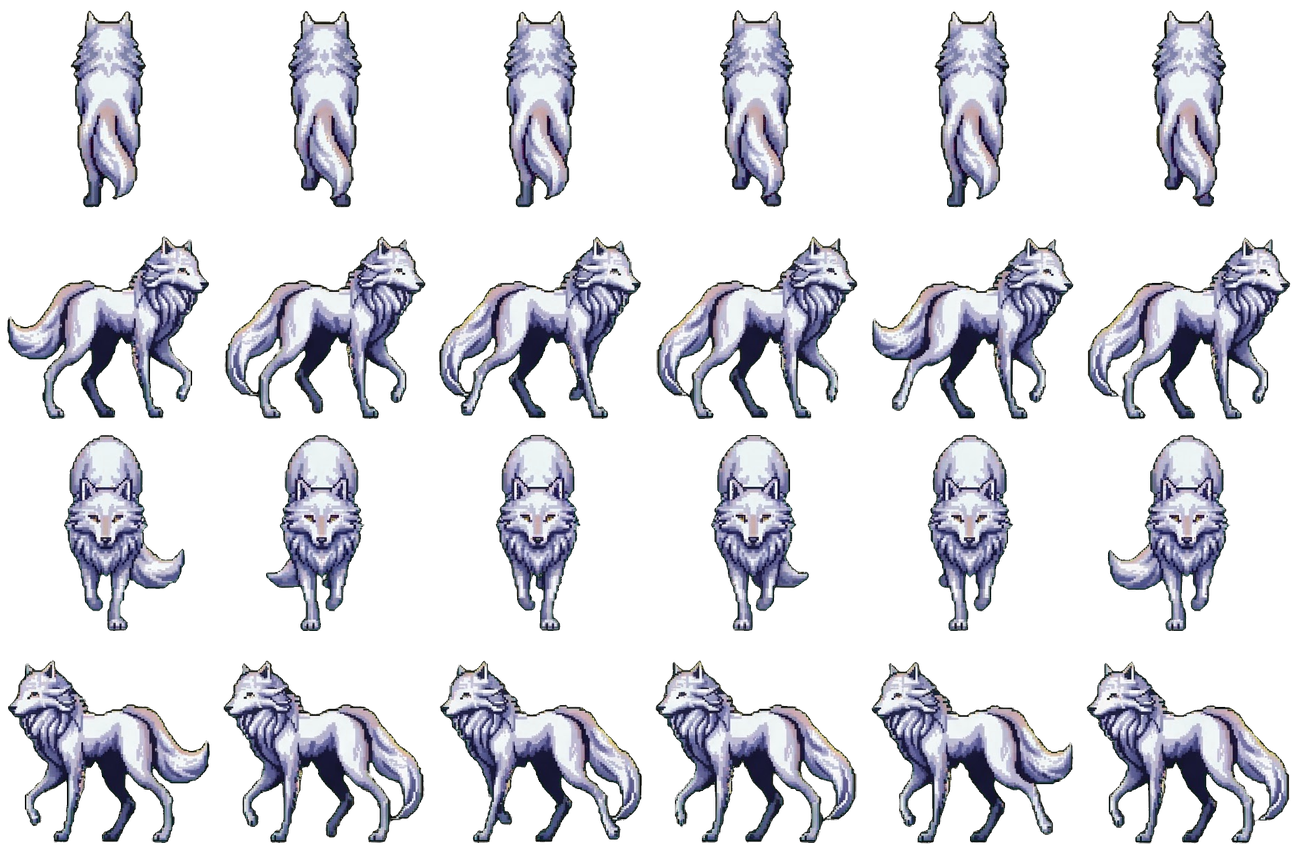
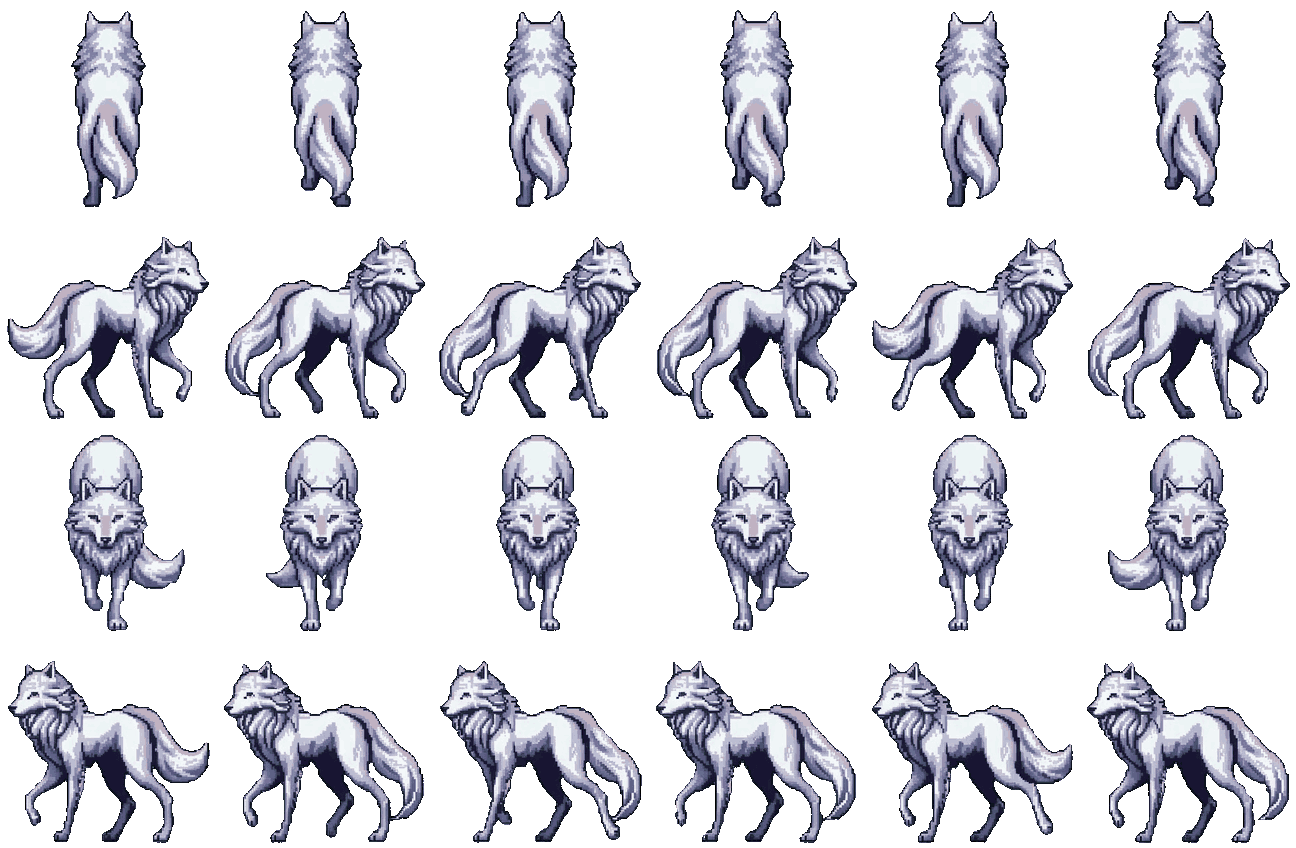
Lobo: porta suavização de movimento e sprite novo para aide_lobo_estados
- Mantém a suavização de direção e de oscilação do commit remoto 2601647.
- Usa o sprite limpo (166 KB, 1296x848) de a129676 / 2601647.
- Poses e estados testados de novo com o sprite novo.

Claude-Session: https://claude.ai/code/session_01NQGjuSq1MytppBRTeVdpfG

diff --git a/aide_lobo_estados/index.html b/aide_lobo_estados/index.html
@@ -2908,12 +2908,12 @@ function addWolfItems(queue,camX,camY,clock,viewRadius,solar){
   const travelBefore=w.travel||0;let moved=false;if(w.v>.4&&dt>0){moved=wolfStep(w,w.v,dt);if(!moved&&w.state==='walk'){w.v=Math.min(w.v,8);if(wolfPickTarget(w)){w.startAt=clock+.2}else{w.state='rest';w.next=clock+2}}}
   wolfPoseStep(w,dt);
   const it=w._item,moving=moved&&(w.travel||0)>travelBefore&&w.v>2.5,stride=10;
-  it.x=w.x;it.y=w.y;it.row=WOLF_ROWMAP[w.dir];it.alpha=1;
+  it.x=w.x;it.y=w.y;if(w.shownDir==null){w.shownDir=w.dir;w.dirT=w.dir;w.dirAt=clock}else if(w.dirT!==w.dir){w.dirT=w.dir;w.dirAt=clock}else if(clock-w.dirAt>=.12)w.shownDir=w.dir;it.row=WOLF_ROWMAP[w.shownDir];it.alpha=1;
   if(moving){w.travel=(w.travel||0);it.frame=WOLF_GAIT[Math.floor(w.travel/stride)%6];
    // sobe e desce a cada passada: no contato o corpo está mais baixo, no meio do passo sobe
    const sp=Math.min(1,w.v/50),amp=(.4+.5*sp)*WOLF_SCALE,ph=Math.PI*w.travel/stride,p=Math.abs(Math.sin(ph));it.bob=-amp*p;it.sway=Math.sin(ph)*.45*sp*WOLF_SCALE;it.squash=1-.035*p*sp}
   else{it.frame=1;it.bob=-.6*(1+Math.sin(clock*2.1+w.phase))*.5;it.sway=0;it.squash=1}
-  const sc=WOLF_SCALE;it.clock=clock;it.pulse=(.8+.2*Math.sin(clock*1.7+w.phase))*night;
+  if(w.bobS==null){w.bobS=it.bob;w.swS=it.sway;w.sqS=it.squash}const kk=Math.min(1,dt*12);w.bobS+=(it.bob-w.bobS)*kk;w.swS+=(it.sway-w.swS)*kk;w.sqS+=(it.squash-w.sqS)*kk;it.bob=w.bobS;it.sway=w.swS;it.squash=w.sqS;const sc=WOLF_SCALE;it.clock=clock;it.pulse=(.8+.2*Math.sin(clock*1.7+w.phase))*night;
   const eyeL=WOLF_EYES[it.row*6+it.frame]||[];it.pp=w.pp;it.eyes=w.pose==='lie'?[]:eyeL.map(([ex,ey])=>{const q=wolfPt(w.pp,ex,ey,sc);return [w.x+q[0],w.y+q[1]+(it.bob||0)]});
   if(!w.trail)w.trail=[];if(moving&&it.eyes.length)w.trail.push({t:clock,pts:it.eyes});
   while(w.trail.length&&clock-w.trail[0].t>.34)w.trail.shift();if(w.trail.length>12)w.trail.shift();
